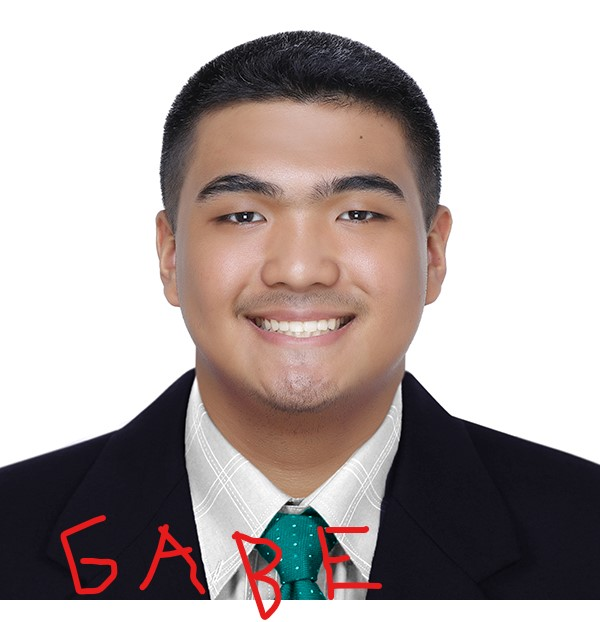
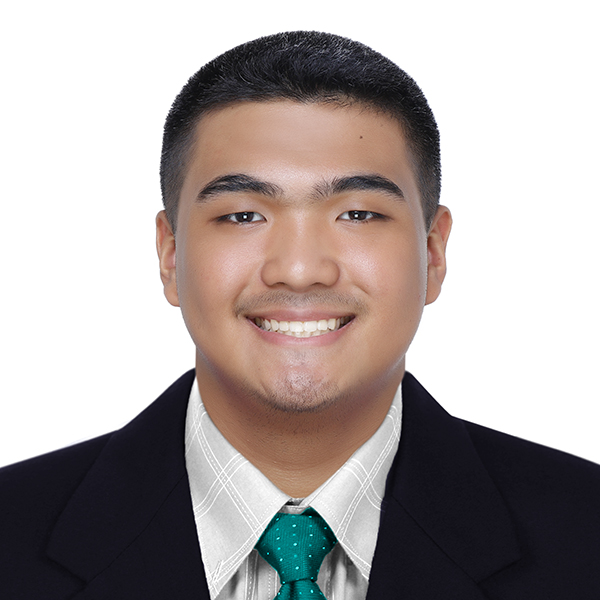
chore:edited index.html and style.css

diff --git a/index.html b/index.html
@@ -11,21 +11,55 @@
     <body>
         <div class="flex-container">
             <div class = "flex-item" style="align-items: center;">
-                <h4>Feature Photo</h4>
-                <img src = "./Santos_pic.jpg" width = "35%" height = "450px">
+                <h2 style="text-align: center;">Feature Photo</h2>
+                <img src = "./Santos_pic.jpg" class = "feat">
             </div>
         </div>
+        <h2>Previous Projects</h2>
         <div class="flex-container">
             <div class = "flex-item">
+                <h4>Connect 4</h4>
+                <p>The project I made for my CMSC 12 class, a couple of years ago was that of a connect 4 and connect 5 game using the terminal. Though it's not really complicated, this project meant a lot because it's my first.</p>
             </div>
             <div class = "flex-item">
-                <h4>Title 2</h4>
-                <p>This is the description of this title</p>
+                <h4>Peashooter Game</h4>
+                <p>My CMSC 22 project was a basic shooting game that uses the a Plants vs Zombies theme where the user is a peashooter and has to shoot zombies.</p>
             </div>
             <div class = "flex-item">
-                <h4>Title 3</h4>
+                <h4>ELBeds</h4>
+                <p>The biggest project I've worked on is a student accomodation application wherein students are able to check dorms or apartments in the vicinity of the campus. I worked on the backend of this project.</p>
+            </div>
+            <div class = "flex-item">
+                <h4>Title 4</h4>
                 <p>This is the description of this title</p>
+            </div>
+        </div>
+        <br/>
+        <div class="flex-container">
+            <div class="flex-item">
+                <h2>Skills</h2>
+                <h4>Technical Skills</h4>
+                <p> - knowledgable in C, Java, and Python<br>
+                    - familiar with basic data structures<br>
+                    - can tinker around Linux OS<br>
+                    - has backend experience<br><br>
+                </p>
+
+                <h4>Soft Skills</h4>    
+                <p>
+                    - teamplayer<br>
+                    - good time management<br>
+                    - critical thinker<br>
+                    - great problem-solving skills<br>
+                </p>
+            </div>
+            <div class="flex-item">
+                <h2>Autobiography</h2>
+                <p>description of skills</p>
             </div>
         </div>
     </body>
+    <footer>
+        <hr/>
+    </footer>
 </html>

diff --git a/style.css b/style.css
@@ -1,12 +1,34 @@
-.flex-container{
-    background-color: salmon;
-    display: flex;
-    flex-direction: row;
-    flex-wrap: wrap;
-    justify-content: space-evenly;
-    align-items: baseline;
+/* Featured Photo */
+body{
+    background-color: antiquewhite;
 }
+.feat{
+    
+    display: block;
+    margin-left: auto;
+    margin-right: auto;
+    width: 35%;
+    height: 500px;
+}
+
+/* for the flex containers */
+.flex-container{
+    /* background-color: salmon; */
+    display: flex;
+    /* flex-direction: row; */
+    /* flex-wrap: wrap; */
+    /* justify-content: center; */
+    align-items: baseline; 
+    gap: 20px;
+
+
+}
+/* for each flex item */
 .flex-item{
     border: 1px solid; 
-    flex: auto
+    flex: auto;
+    background-color: #83677b;
+    padding: 20px;
+    margin: 10px;
 }
+
